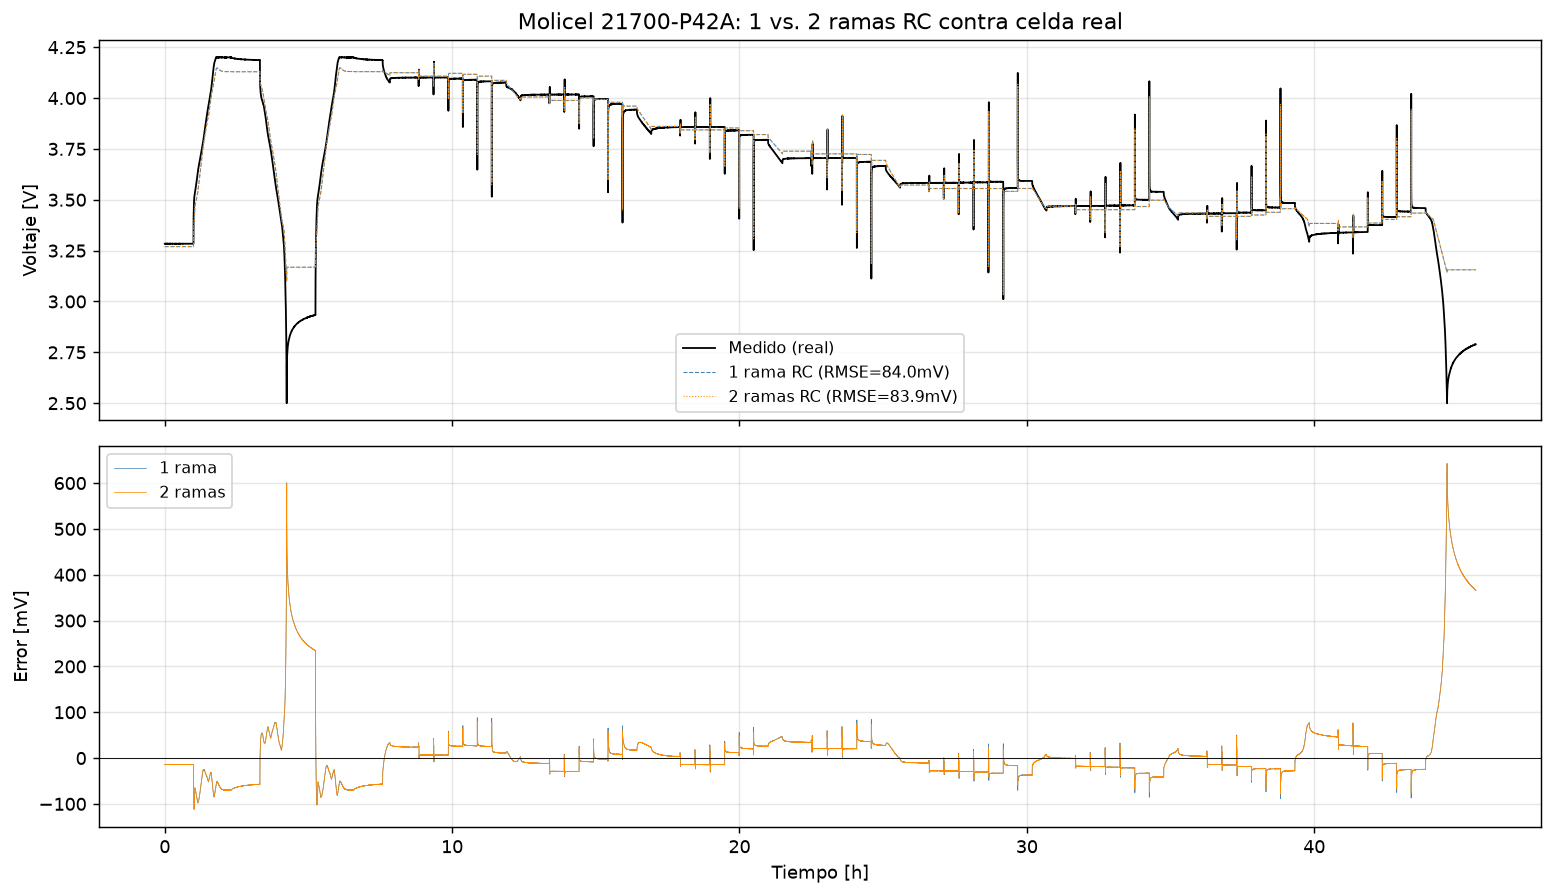
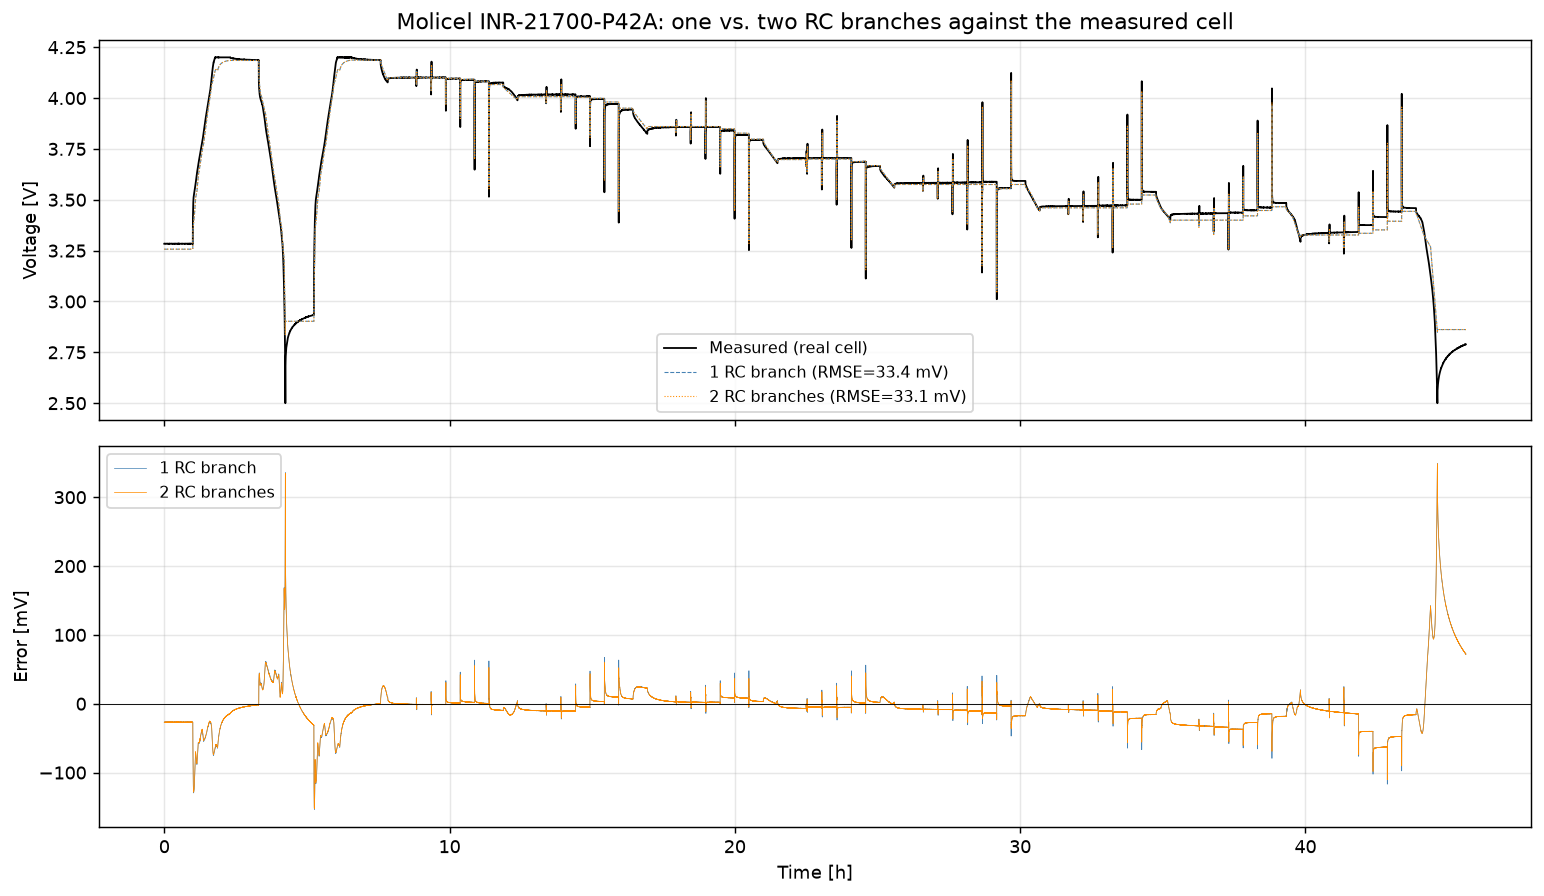
Ship the Python ESC reference model inside the repo
The validation scripts imported esc_battery_model from a sibling project
outside this repository, so a clean clone could not reproduce the reported
numbers. The module now ships here, which is what SoftwareX reviewers check
when they ask whether the described experiments can be reproduced.

Also gates the hysteresis experiment behind HYSTERESIS_EXPERIMENT (default
off): it is a reported negative result and left enabled it produced figures
that did not match the baseline RMSE reported in the manuscript. Figure
labels are now in English.

diff --git a/validation_data/esc_battery_model.py b/validation_data/esc_battery_model.py
@@ -1,0 +1,152 @@
+"""Modelo ESC (Enhanced Self-Correcting) de celda Li-ion -- Plett (2015), Cap. 2.
+
+Portado tal cual (misma matematica, sin reinventarla) desde
+`OTROS/3. Research/12. Baterias/notebooks/ch02_equivalent_circuit_models.ipynb`
+(clase `ESCModel` / `ESCModel_nRC` del notebook), reescrito como modulo reutilizable
+tanto por un nodo ROS2 en vivo (`esc_battery_node.py`) como por el script de comparacion
+offline (`scripts/compare_and_plot.py`) -- una sola fuente de verdad para el modelo.
+
+Referencia: Gregory L. Plett, *Battery Management Systems, Volume 1: Battery Modeling*,
+Artech House, 2015, Cap. 2 (Equivalent-Circuit Models).
+
+Diferencia respecto al demo del notebook: la curva OCV(SOC) de abajo es representativa de
+una celda Li-ion NMC/grafito (18650, ~3.6V nominal, 4.2V full), no la LiFePO4 usada como
+demo en el notebook -- es la quimica tipica de un pack LiPo/Li-ion de dron (ver BOM.md), la
+LiFePO4 del notebook original tiene una curva mucho mas plana y no es representativa aqui.
+"""
+
+from dataclasses import dataclass, field
+
+import numpy as np
+from scipy.interpolate import interp1d
+
+# OCV(SOC) para celda Li-ion NMC/grafito, 18650-tipo (curva tipica, ver
+# 00_index.ipynb -> "Typical Li-ion Cell Parameters (NMC/Graphite, 18650-type)":
+# V_nom=3.6V. Puntos de referencia de forma de curva NMC estandar en la literatura
+# (p.ej. parametrizacion tipo Chen 2020, tambien citada en 00_index.ipynb).
+_NMC_SOC_POINTS = np.array([0.00, 0.05, 0.10, 0.20, 0.30, 0.40, 0.50,
+                             0.60, 0.70, 0.80, 0.90, 0.95, 1.00])
+_NMC_OCV_POINTS = np.array([3.00, 3.30, 3.45, 3.55, 3.62, 3.68, 3.72,
+                             3.78, 3.85, 3.95, 4.08, 4.14, 4.20])
+
+NMC_OCV_FUNC = interp1d(_NMC_SOC_POINTS, _NMC_OCV_POINTS, kind="cubic",
+                         bounds_error=False,
+                         fill_value=(_NMC_OCV_POINTS[0], _NMC_OCV_POINTS[-1]))
+
+
+@dataclass
+class ESCParams:
+    """Parametros de celda -- misma celda LIR18650 que usa el demo oficial de Gazebo
+    (`examples/worlds/linear_battery_demo.sdf`, rama gz-sim8: "Li-ion battery spec from
+    LIR18650 datasheet") para que la comparacion sea sobre la MISMA celda fisica, no dos
+    celdas distintas con parametros inventados por separado.
+
+    R0+R1 = 0.07 Ohm = la resistencia serie total que usa el modelo lineal de Gazebo
+    (`resistance` en el SDF) -- el ESC divide esa misma resistencia total en una
+    componente instantanea (R0) y una de relajacion/difusion (R1*rama RC), que es
+    exactamente la riqueza fisica que al modelo lineal le falta por diseno.
+    """
+
+    capacity_ah: float = 2.5       # Q -- igual a <capacity> del demo de Gazebo
+    r0_ohm: float = 0.050          # resistencia serie instantanea [Ohm] (usado si r0_func es None)
+    r1_ohm: float = 0.020          # resistencia de la rama RC 1 (difusion lenta) [Ohm] (usado si r1_func es None)
+    c1_farad: float = 4000.0       # capacitancia de la rama RC 1 [F] (tau ~= 80s, celda pequena)
+    # Rama RC 2 (opcional, r2_ohm=0 = desactivada = comportamiento previo sin
+    # cambios). Motivada por validacion contra 2 datasets reales
+    # independientes (Panasonic 18650PF y Molicel 21700-P42A, ver
+    # Dron_Racing_UPM/gz_ecm_battery_plugin/PAPER_DRAFT_OUTLINE.md): ambos
+    # muestran el mismo patron de error grande solo en SOC muy bajo/corriente
+    # muy alta -- consistente con la literatura de que una sola rama RC no
+    # separa bien la dinamica rapida (transferencia de carga) de la lenta
+    # (difusion); dos ramas RC reducen el error maximo de forma consistente
+    # en varios estudios comparativos publicados.
+    r2_ohm: float = 0.0            # resistencia de la rama RC 2 (transferencia de carga, mas rapida) [Ohm]
+    c2_farad: float = 100.0        # capacitancia de la rama RC 2 [F]
+    hyst_m: float = 0.010          # M, amplitud histeresis dinamica [V]
+    hyst_m0: float = 0.003         # M0, amplitud histeresis instantanea [V]
+    hyst_gamma: float = 50.0       # tasa de decaimiento de histeresis
+    coulombic_eff: float = 0.998   # eta, eficiencia coulombica al cargar
+    ocv_func: callable = field(default=NMC_OCV_FUNC)
+    # Opcionales: R0(SOC)/R1(SOC) -- si se proveen, reemplazan a r0_ohm/r1_ohm
+    # como funcion del SOC en vez de constante. None = comportamiento previo
+    # sin cambios (celdas reales tienen impedancia mayor en los extremos de
+    # SOC; ver validation_data/validate_against_panasonic18650pf.py en
+    # Dron_Racing_UPM para el ajuste real que motiva esto).
+    r0_func: callable = None
+    r1_func: callable = None
+
+
+class ESCModel:
+    """Modelo ESC de una rama RC + histeresis dinamica + instantanea (Plett Cap. 2).
+
+    Uso en vivo (nodo ROS2): crear una instancia, llamar `step(i, dt)` en cada
+    iteracion -- mantiene su propio estado interno (z, iR, h).
+
+    Uso offline (comparacion/notebook): `simulate(current_profile, dt)` corre el
+    modelo completo sobre un array de corriente y devuelve las trayectorias.
+    """
+
+    def __init__(self, params: ESCParams, z0: float = 1.0):
+        self.p = params
+        self.q_as = params.capacity_ah * 3600.0  # Ah -> A*s
+        self.z = z0
+        self.i_r1 = 0.0
+        self.i_r2 = 0.0
+        self.h = 0.0
+        self.s = 0.0
+
+    def reset(self, z0: float = 1.0):
+        self.z = z0
+        self.i_r1 = 0.0
+        self.i_r2 = 0.0
+        self.h = 0.0
+        self.s = 0.0
+
+    @staticmethod
+    def _f_rc(dt: float, r: float, c: float) -> float:
+        # r<=0 => rama desactivada (evita division por cero); la corriente de
+        # esa rama se mantiene en 0 en step().
+        if r <= 0.0:
+            return 0.0
+        return np.exp(-dt / (r * c))
+
+    def step(self, current_a: float, dt: float) -> float:
+        """Avanza un paso de tiempo. `current_a` positivo = descarga. Devuelve v[k]."""
+        eta = self.p.coulombic_eff if current_a > 0 else 1.0
+        soc_clamped = np.clip(self.z, 0.0, 1.0)
+        r0 = self.p.r0_func(soc_clamped) if self.p.r0_func is not None else self.p.r0_ohm
+        r1 = self.p.r1_func(soc_clamped) if self.p.r1_func is not None else self.p.r1_ohm
+        r2 = self.p.r2_ohm
+
+        if abs(current_a) > 1e-9:
+            self.s = np.sign(current_a)
+
+        v = (self.p.ocv_func(soc_clamped)
+             + self.p.hyst_m0 * self.s
+             + self.p.hyst_m * self.h
+             - r1 * self.i_r1
+             - r2 * self.i_r2
+             - r0 * current_a)
+
+        f1 = self._f_rc(dt, r1, self.p.c1_farad)
+        f2 = self._f_rc(dt, r2, self.p.c2_farad)
+        a_h = np.exp(-abs(eta * current_a * self.p.hyst_gamma * dt / self.q_as))
+
+        self.z = float(np.clip(self.z - (eta * dt / self.q_as) * current_a, 0.0, 1.0))
+        self.i_r1 = f1 * self.i_r1 + (1 - f1) * current_a if r1 > 0.0 else 0.0
+        self.i_r2 = f2 * self.i_r2 + (1 - f2) * current_a if r2 > 0.0 else 0.0
+        self.h = float(np.clip(a_h * self.h - (1 - a_h) * np.sign(current_a), -1.0, 1.0))
+
+        return float(v)
+
+    def simulate(self, current_profile: np.ndarray, dt: float, z0: float = 1.0):
+        """Corre el modelo sobre un perfil de corriente completo (uso offline)."""
+        self.reset(z0)
+        n = len(current_profile)
+        t = np.arange(n) * dt
+        v = np.zeros(n)
+        z = np.zeros(n)
+        for k in range(n):
+            v[k] = self.step(float(current_profile[k]), dt)
+            z[k] = self.z
+        return t, v, z

diff --git a/validation_data/validate_against_osf_molicel.py b/validation_data/validate_against_osf_molicel.py
@@ -42,15 +42,22 @@ import matplotlib.pyplot as plt  # noqa: E402
 
 HERE = os.path.dirname(os.path.abspath(__file__))
 RESULTS_DIR = os.path.join(HERE, "results")
+
+# Hysteresis experiment: split rest points by approach direction (post-charge vs.
+# post-discharge), measure the OCV gap at equal SOC, and feed half of it back as
+# the instantaneous hysteresis amplitude M0.
+#
+# This is a REPORTED NEGATIVE RESULT, kept off by default. With the rest-point
+# coverage this dataset provides (61 points, split 24/36 by direction) the two
+# curves are too sparse to separate reliably, and enabling it degrades RMSE from
+# 33.4 mV to 84.0 mV. The code is kept so the negative result is reproducible.
+# Set to True to reproduce it; leave False for the baseline reported in the paper.
+HYSTERESIS_EXPERIMENT = False
 sys.path.insert(0, HERE)
 from validate_against_panasonic18650pf import (  # noqa: E402
     build_soc_curve, fit_r0_r1_c1_per_pulse, fit_two_rc_branches_per_pulse,
     find_pulses)
 
-ESC_MODEL_PATH = os.path.join(
-    HERE, "..", "..", "..", "Dron_PX4_ROS2", "ros2_ws", "src",
-    "dron_px4_battery_models", "dron_px4_battery_models")
-sys.path.insert(0, os.path.abspath(ESC_MODEL_PATH))
 from esc_battery_model import ESCModel, ESCParams  # noqa: E402
 
 
@@ -150,7 +157,7 @@ def main():
     print(f"Reposos post-descarga: {dis_mask.sum()}, post-carga: {chg_mask.sum()}")
     hyst_m0_fit = 0.0
     ocv_avg_grid, ocv_avg_v = soc_grid, v_grid
-    if dis_mask.sum() >= 3 and chg_mask.sum() >= 3:
+    if HYSTERESIS_EXPERIMENT and dis_mask.sum() >= 3 and chg_mask.sum() >= 3:
         dis_curve = build_soc_curve(soc_frac[dis_mask], v_ocv_pts[dis_mask],
                                      bin_width=0.1, min_points=2)
         chg_curve = build_soc_curve(soc_frac[chg_mask], v_ocv_pts[chg_mask],
@@ -256,20 +263,20 @@ def main():
               f"(1 rama: {max_err_mv:.2f} mV)")
 
         fig2b, ax2b = plt.subplots(2, 1, figsize=(12, 7), sharex=True)
-        ax2b[0].plot(t / 3600, v, "k", lw=1.0, label="Medido (real)")
+        ax2b[0].plot(t / 3600, v, "k", lw=1.0, label="Measured (real cell)")
         ax2b[0].plot(t / 3600, v_sim, "steelblue", lw=0.6, ls="--",
-                      label=f"1 rama RC (RMSE={rmse_mv:.1f}mV)")
+                      label=f"1 RC branch (RMSE={rmse_mv:.1f} mV)")
         ax2b[0].plot(t / 3600, v_sim_2rc, "darkorange", lw=0.6, ls=":",
-                      label=f"2 ramas RC (RMSE={rmse_2rc_mv:.1f}mV)")
-        ax2b[0].set_ylabel("Voltaje [V]")
+                      label=f"2 RC branches (RMSE={rmse_2rc_mv:.1f} mV)")
+        ax2b[0].set_ylabel("Voltage [V]")
         ax2b[0].legend(fontsize=9)
-        ax2b[0].set_title("Molicel 21700-P42A: 1 vs. 2 ramas RC contra celda real")
+        ax2b[0].set_title("Molicel INR-21700-P42A: one vs. two RC branches against the measured cell")
         ax2b[0].grid(alpha=0.3)
-        ax2b[1].plot(t / 3600, error_mv, "steelblue", lw=0.4, label="1 rama")
-        ax2b[1].plot(t / 3600, error_2rc_mv, "darkorange", lw=0.4, label="2 ramas")
+        ax2b[1].plot(t / 3600, error_mv, "steelblue", lw=0.4, label="1 RC branch")
+        ax2b[1].plot(t / 3600, error_2rc_mv, "darkorange", lw=0.4, label="2 RC branches")
         ax2b[1].axhline(0, color="k", lw=0.5)
         ax2b[1].set_ylabel("Error [mV]")
-        ax2b[1].set_xlabel("Tiempo [h]")
+        ax2b[1].set_xlabel("Time [h]")
         ax2b[1].legend(fontsize=9)
         ax2b[1].grid(alpha=0.3)
         plt.tight_layout()
@@ -281,21 +288,21 @@ def main():
 
     fig, axes = plt.subplots(3, 1, figsize=(12, 9), sharex=True)
     axes[0].plot(t / 3600, i, "C1", lw=0.5)
-    axes[0].set_ylabel("Corriente [A]")
+    axes[0].set_ylabel("Current [A]")
     axes[0].set_title(
-        "Modelo ESC vs. celda Molicel INR-21700-P42A real medida "
-        "(dataset OSF, doi:10.17605/OSF.IO/9CEAV, celda A13, test HCGT 25degC)")
+        "ESC model vs. measured Molicel INR-21700-P42A cell "
+        "(OSF dataset, doi:10.17605/OSF.IO/9CEAV, cell A13, HCGT test, 25 degC)")
     axes[0].grid(alpha=0.3)
-    axes[1].plot(t / 3600, v, "k", lw=0.8, label="Medido (real)")
-    axes[1].plot(t / 3600, v_sim, "steelblue", lw=0.6, ls="--", label="ESC simulado")
-    axes[1].set_ylabel("Voltaje [V]")
+    axes[1].plot(t / 3600, v, "k", lw=0.8, label="Measured (real cell)")
+    axes[1].plot(t / 3600, v_sim, "steelblue", lw=0.6, ls="--", label="ESC model")
+    axes[1].set_ylabel("Voltage [V]")
     axes[1].legend(fontsize=9)
     axes[1].grid(alpha=0.3)
     axes[2].plot(t / 3600, error_mv, "purple", lw=0.4)
     axes[2].axhline(0, color="k", lw=0.5)
     axes[2].set_ylabel("Error [mV]")
-    axes[2].set_xlabel("Tiempo [h]")
-    axes[2].set_title(f"RMSE = {rmse_mv:.1f} mV | error máx. = {max_err_mv:.1f} mV")
+    axes[2].set_xlabel("Time [h]")
+    axes[2].set_title(f"RMSE = {rmse_mv:.1f} mV | max. error = {max_err_mv:.1f} mV")
     axes[2].grid(alpha=0.3)
     plt.tight_layout()
     fig_path = os.path.join(RESULTS_DIR, "validation_vs_osf_molicel.png")

diff --git a/validation_data/validate_against_panasonic18650pf.py b/validation_data/validate_against_panasonic18650pf.py
@@ -39,10 +39,9 @@ RESULTS_DIR = os.path.join(HERE, "results")
 
 # Reutilizar la clase ESCModel real (misma fuente de verdad que el plugin
 # C++ porta) en vez de reimplementar la matematica una tercera vez.
-ESC_MODEL_PATH = os.path.join(
-    HERE, "..", "..", "..", "Dron_PX4_ROS2", "ros2_ws", "src",
-    "dron_px4_battery_models", "dron_px4_battery_models")
-sys.path.insert(0, os.path.abspath(ESC_MODEL_PATH))
+# The Python reference implementation of the ESC model ships in this directory
+# (esc_battery_model.py) so the validation is reproducible from a clean clone.
+sys.path.insert(0, HERE)
 from esc_battery_model import ESCModel, ESCParams  # noqa: E402
 
 
@@ -375,20 +374,20 @@ def main():
               f"(1 rama: {max_err_mv:.2f} mV)")
 
         fig2, ax2 = plt.subplots(2, 1, figsize=(12, 7), sharex=True)
-        ax2[0].plot(t_real / 3600, v_real, "k", lw=1.0, label="Medido (real)")
+        ax2[0].plot(t_real / 3600, v_real, "k", lw=1.0, label="Measured (real cell)")
         ax2[0].plot(t_real / 3600, v_sim, "steelblue", lw=0.8, ls="--",
-                     label=f"1 rama RC (RMSE={rmse_mv:.1f}mV)")
+                     label=f"1 RC branch (RMSE={rmse_mv:.1f} mV)")
         ax2[0].plot(t_real / 3600, v_sim_2rc, "darkorange", lw=0.8, ls=":",
-                     label=f"2 ramas RC (RMSE={rmse_2rc_mv:.1f}mV)")
-        ax2[0].set_ylabel("Voltaje [V]")
+                     label=f"2 RC branches (RMSE={rmse_2rc_mv:.1f} mV)")
+        ax2[0].set_ylabel("Voltage [V]")
         ax2[0].legend(fontsize=9)
-        ax2[0].set_title("Panasonic 18650PF: 1 vs. 2 ramas RC contra celda real")
+        ax2[0].set_title("Panasonic 18650PF: one vs. two RC branches against the measured cell")
         ax2[0].grid(alpha=0.3)
-        ax2[1].plot(t_real / 3600, error_mv, "steelblue", lw=0.5, label="1 rama")
-        ax2[1].plot(t_real / 3600, error_2rc_mv, "darkorange", lw=0.5, label="2 ramas")
+        ax2[1].plot(t_real / 3600, error_mv, "steelblue", lw=0.5, label="1 RC branch")
+        ax2[1].plot(t_real / 3600, error_2rc_mv, "darkorange", lw=0.5, label="2 RC branches")
         ax2[1].axhline(0, color="k", lw=0.5)
         ax2[1].set_ylabel("Error [mV]")
-        ax2[1].set_xlabel("Tiempo [h]")
+        ax2[1].set_xlabel("Time [h]")
         ax2[1].legend(fontsize=9)
         ax2[1].grid(alpha=0.3)
         plt.tight_layout()
@@ -430,24 +429,24 @@ def main():
 
     fig, axes = plt.subplots(3, 1, figsize=(12, 9), sharex=True)
     axes[0].plot(t_real / 3600, i_real, "C1", lw=0.8)
-    axes[0].set_ylabel("Corriente [A]")
+    axes[0].set_ylabel("Current [A]")
     axes[0].set_title(
-        "Modelo ESC vs. celda Panasonic 18650PF real medida "
-        "(Kollmeyer/Univ. Wisconsin-Madison, doi:10.17632/wykht8y7tg.1)")
+        "ESC model vs. measured Panasonic 18650PF cell "
+        "(Kollmeyer, Mendeley Data, doi:10.17632/wykht8y7tg.1)")
     axes[0].grid(alpha=0.3)
 
-    axes[1].plot(t_real / 3600, v_real, "k", lw=1.0, label="Medido (real)")
+    axes[1].plot(t_real / 3600, v_real, "k", lw=1.0, label="Measured (real cell)")
     axes[1].plot(t_real / 3600, v_sim, "steelblue", lw=0.8, ls="--",
-                 label="ESC simulado (R0/R1/C1/OCV ajustados de este mismo dataset)")
-    axes[1].set_ylabel("Voltaje [V]")
+                 label="ESC model (R0/R1/C1/OCV fitted from this same dataset)")
+    axes[1].set_ylabel("Voltage [V]")
     axes[1].legend(fontsize=9)
     axes[1].grid(alpha=0.3)
 
     axes[2].plot(t_real / 3600, error_mv, "purple", lw=0.6)
     axes[2].axhline(0, color="k", lw=0.5)
     axes[2].set_ylabel("Error [mV]")
-    axes[2].set_xlabel("Tiempo [h]")
-    axes[2].set_title(f"RMSE = {rmse_mv:.1f} mV | error máx. = {max_err_mv:.1f} mV")
+    axes[2].set_xlabel("Time [h]")
+    axes[2].set_title(f"RMSE = {rmse_mv:.1f} mV | max. error = {max_err_mv:.1f} mV")
     axes[2].grid(alpha=0.3)
 
     plt.tight_layout()
